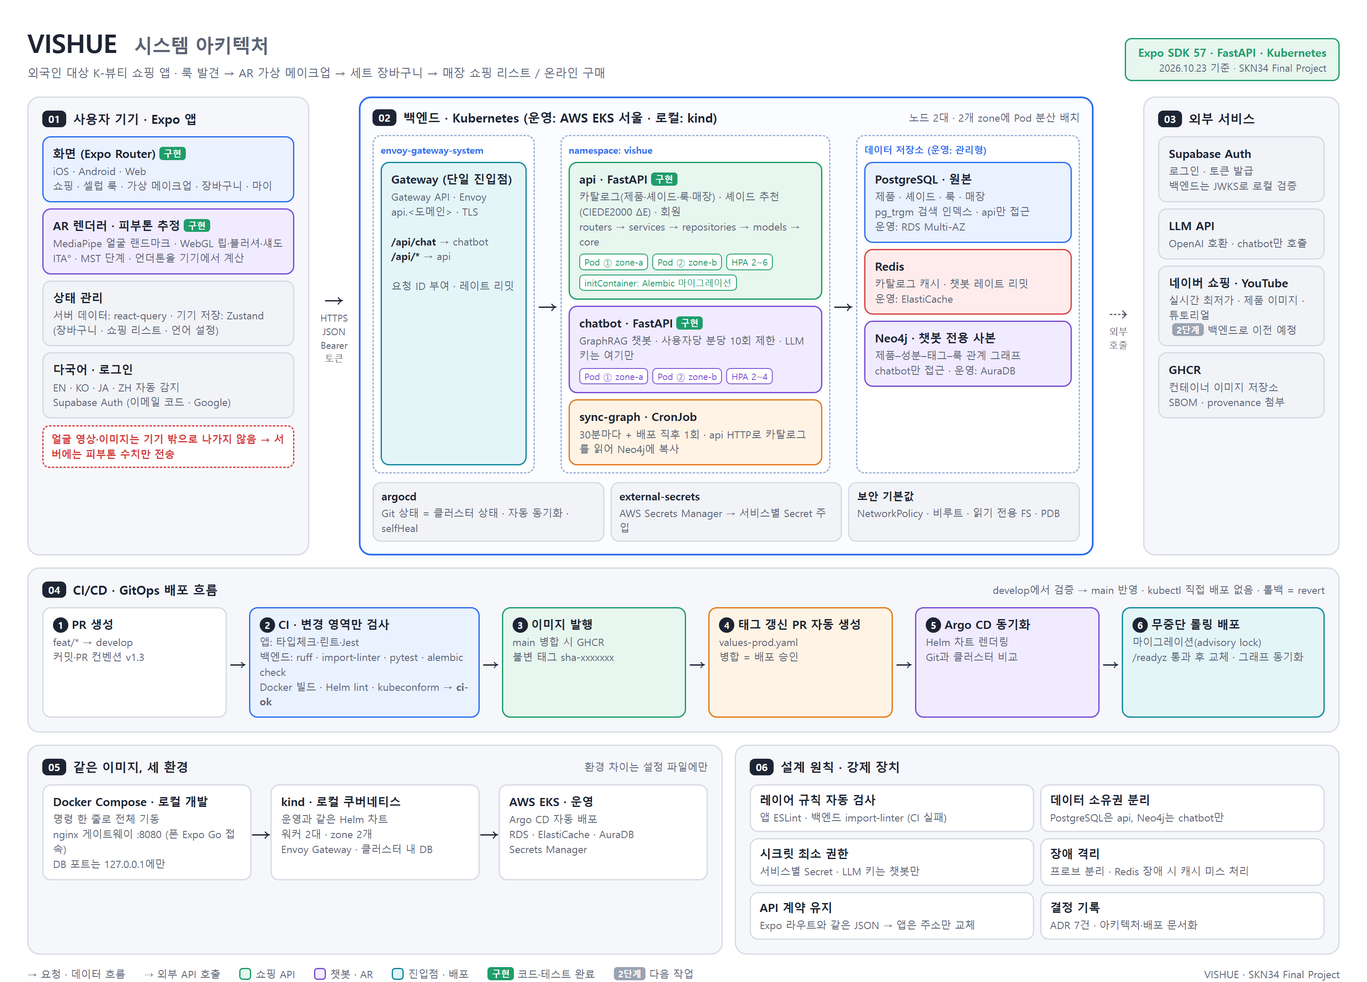
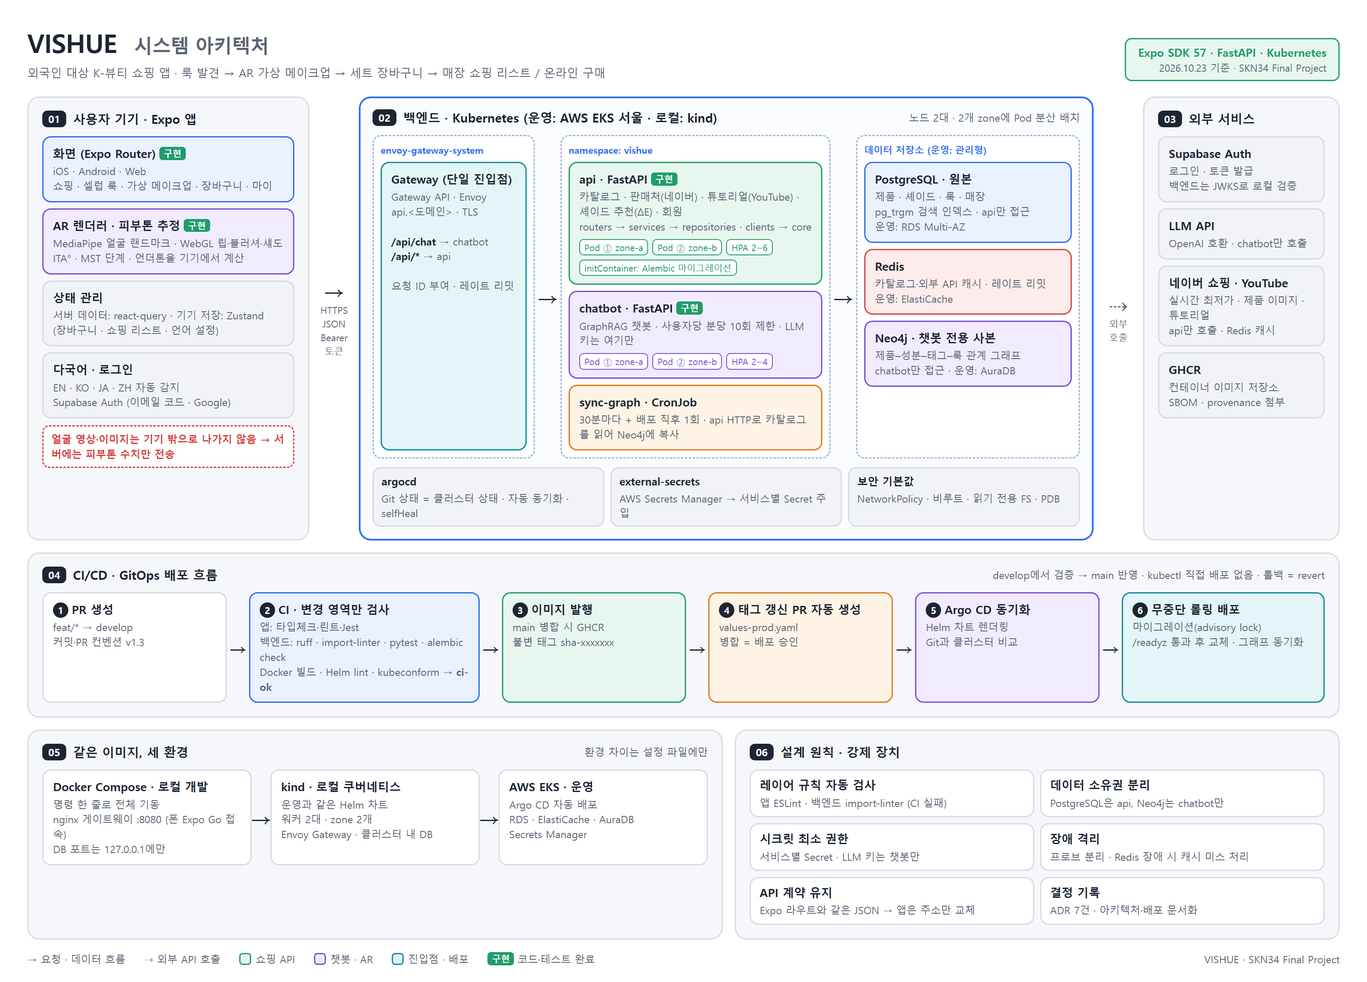
docs: 백엔드 전환에 맞춰 문서와 구조도 갱신

diff --git a/docs/architecture/vishue-architecture.html b/docs/architecture/vishue-architecture.html
@@ -108,7 +108,7 @@
       <div class="ns">
         <div class="label">namespace: vishue</div>
         <div class="stack">
-          <div class="box green"><b>api · FastAPI<span class="tag ok">구현</span></b><p>카탈로그(제품·셰이드·룩·매장) · 셰이드 추천(CIEDE2000 ΔE) · 회원<br>routers → services → repositories → models → core</p>
+          <div class="box green"><b>api · FastAPI<span class="tag ok">구현</span></b><p>카탈로그 · 판매처(네이버) · 튜토리얼(YouTube) · 셰이드 추천(ΔE) · 회원<br>routers → services → repositories · clients → core</p>
             <div class="pods" style="color:var(--green)"><span class="pod">Pod ① zone-a</span><span class="pod">Pod ② zone-b</span><span class="pod">HPA 2~6</span><span class="pod">initContainer: Alembic 마이그레이션</span></div></div>
           <div class="box purple"><b>chatbot · FastAPI<span class="tag ok">구현</span></b><p>GraphRAG 챗봇 · 사용자당 분당 10회 제한 · LLM 키는 여기만</p>
             <div class="pods" style="color:var(--purple)"><span class="pod">Pod ① zone-a</span><span class="pod">Pod ② zone-b</span><span class="pod">HPA 2~4</span></div></div>
@@ -120,7 +120,7 @@
         <div class="label">데이터 저장소 (운영: 관리형)</div>
         <div class="stack">
           <div class="box blue"><b>PostgreSQL · 원본</b><p>제품 · 셰이드 · 룩 · 매장<br>pg_trgm 검색 인덱스 · api만 접근<br>운영: RDS Multi-AZ</p></div>
-          <div class="box red"><b>Redis</b><p>카탈로그 캐시 · 챗봇 레이트 리밋<br>운영: ElastiCache</p></div>
+          <div class="box red"><b>Redis</b><p>카탈로그·외부 API 캐시 · 레이트 리밋<br>운영: ElastiCache</p></div>
           <div class="box purple"><b>Neo4j · 챗봇 전용 사본</b><p>제품–성분–태그–룩 관계 그래프<br>chatbot만 접근 · 운영: AuraDB</p></div>
         </div>
       </div>
@@ -140,7 +140,7 @@
     <div class="stack">
       <div class="box gray"><b>Supabase Auth</b><p>로그인 · 토큰 발급<br>백엔드는 JWKS로 로컬 검증</p></div>
       <div class="box gray"><b>LLM API</b><p>OpenAI 호환 · chatbot만 호출</p></div>
-      <div class="box gray"><b>네이버 쇼핑 · YouTube</b><p>실시간 최저가 · 제품 이미지 · 튜토리얼<br><span class="tag next">2단계</span> 백엔드로 이전 예정</p></div>
+      <div class="box gray"><b>네이버 쇼핑 · YouTube</b><p>실시간 최저가 · 제품 이미지 · 튜토리얼<br>api만 호출 · Redis 캐시</p></div>
       <div class="box gray"><b>GHCR</b><p>컨테이너 이미지 저장소<br>SBOM · provenance 첨부</p></div>
     </div>
   </div>
@@ -197,7 +197,6 @@
   <span><i class="sw" style="border-color:var(--purple);background:var(--purple-bg)"></i>챗봇 · AR</span>
   <span><i class="sw" style="border-color:var(--teal);background:var(--teal-bg)"></i>진입점 · 배포</span>
   <span><span class="tag ok" style="margin:0 4px 0 0">구현</span>코드·테스트 완료</span>
-  <span><span class="tag next" style="margin:0 4px 0 0">2단계</span>다음 작업</span>
   <span style="margin-left:auto">VISHUE · SKN34 Final Project</span>
 </div>
 

diff --git a/README.md b/README.md
@@ -28,31 +28,27 @@
 ## 구조
 
 ```
-app/                    Expo Router 화면 + API 라우트
+app/                    Expo Router 화면
   (tabs)/               쇼핑 · 룩 · 가상 메이크업 · 장바구니 · 마이
   product/ look/        상세 화면
   checkout.tsx lists/   쇼핑 리스트 생성 · 보기
   legal/                개인정보처리방침 · 이용약관
   login, membership, rewards, saved, ingredients
                         새 기획 화면 (UI만 있음, 동작은 미구현)
-  api/                  서버 엔드포인트 (*+api.ts) — 파라미터 검증과 응답만
-server/                 서버 전용 로직 (앱 번들에 포함되지 않음)
-  services/             비즈니스 로직 (검색·필터, 룩 조합, 판매처, 튜토리얼)
-  repositories/         데이터 접근 (지금은 data/catalog, 나중에 DB)
-  clients/              외부 API (네이버, YouTube) — 키는 여기서만 사용
-  lib/                  HTTP, 캐시, 레이트리밋, 환경 변수
-data/catalog/           제품 · 룩 · 매장 데이터 (현재 비어 있음, types/index.ts 형식에 맞춰 추가)
+  dev/ api/dev/         피부 분석 연구 도구 (개발 환경 전용)
+server/                 피부 분석 연구 도구의 개발용 프록시 · Python 평가 코드 (nia/ acne/)
 components/             UI 컴포넌트 (ui/ 범용 · shop/ celeb/ ar/ 기능별)
   ar/                   얼굴 추적 렌더러 (WebView / 웹 iframe 공용 HTML)
 hooks/                  화면용 조합 훅 (장바구니 + 제품 조회 등)
 lib/                    API 클라이언트, react-query 훅, 로그인(auth/), i18n, 포맷
 store/                  Zustand (장바구니·쇼핑리스트·설정은 기기에 저장)
 constants/              테마, 약관 등 정적 상수
-__tests__/              데이터 무결성 · 검색 · 장바구니 · i18n · 서버 유틸 테스트
+__tests__/              장바구니 · i18n · 로그인 · AR · API 주소 테스트
 ml/                     독립 Python 학습 프로젝트 (src · configs · tests · uv.lock)
 reports/                학습·평가 문서와 공유 가능한 결과 요약
 backend/                FastAPI 백엔드 (서비스별 uv 프로젝트)
-  api/                  카탈로그 · 셰이드 추천(ΔE2000) · 회원 — PostgreSQL · Redis
+  api/                  카탈로그 · 판매처(네이버) · 튜토리얼(YouTube) · 셰이드 추천(ΔE2000) · 회원
+                        — PostgreSQL · Redis, 카탈로그 시드는 seed/catalog.json
   chatbot/              챗봇(GraphRAG) · PostgreSQL→Neo4j 동기화 잡 — Neo4j · LLM
 infra/
   compose/              로컬 전체 구성 (게이트웨이 · 두 서비스 · DB 3종)
@@ -61,31 +57,40 @@ infra/
 .github/workflows/      ci (변경 영역별 검사 → ci-ok) · images (GHCR 발행 → 운영 태그 PR)
 ```
 
-API 키는 `server/`와 `app/api/`에서만 읽고 앱 번들에는 포함되지 않습니다(빌드 결과물 검사로 확인).
+API 키는 백엔드(`backend/`)에서만 읽고 앱 번들에는 포함되지 않습니다.
 
 ## 실행
 
-**Expo SDK 57** (Expo Go 57.x와 호환)
+**Expo SDK 57** (Expo Go 57.x와 호환). 앱은 백엔드에서 데이터를 받으므로 백엔드를 먼저 띄웁니다.
 
 ```bash
 npm install
 cp .env.example .env      # 키 입력 (없어도 실행됨: 튜토리얼 검색·온라인 가격만 비활성)
+
+# 1) 백엔드 (Docker Desktop 필요) → http://localhost:8080
+docker compose -f infra/compose/compose.yaml --env-file .env up --build
+
+# 2) 앱 (다른 터미널)
 npx expo start -c
 ```
 
-- 폰: PC와 같은 Wi-Fi에서 QR 스캔 (iOS Expo Go는 PC와 같은 Expo 계정으로 로그인 필요)
+- 앱은 개발 중에 Metro를 띄운 PC의 `:8080`(백엔드 게이트웨이)으로 자동 연결됩니다. 다른 서버를 쓰려면 `.env`에 `EXPO_PUBLIC_API_BASE_URL`을 넣습니다.
+- 폰: PC와 같은 Wi-Fi에서 QR 스캔 (iOS Expo Go는 PC와 같은 Expo 계정으로 로그인 필요). PC 방화벽에서 8080 포트를 허용해야 합니다.
 - 웹: 터미널에서 `w`
 - AR은 첫 진입 시 카메라 동의 → 권한 요청. 얼굴 추적 모델은 처음 한 번 인터넷에서 내려받습니다.
+- 제품 데이터 넣기: `backend/api/seed/catalog.json`을 채운 뒤 [`docs/DEPLOYMENT.md`](docs/DEPLOYMENT.md)의 시드 명령을 실행합니다.
 
-### 환경 변수 (`.env`, 서버 전용)
+### 환경 변수 (`.env`)
 
-| 변수 | 용도 |
-| --- | --- |
-| `YOUTUBE_API_KEY` | 튜토리얼 검색 (YouTube Data API v3) |
-| `NAVER_CLIENT_ID` / `NAVER_CLIENT_SECRET` | 실제 제품 이미지·온라인 최저가 (네이버 쇼핑 검색 API) |
-| `EXPO_PUBLIC_SUPABASE_URL` / `EXPO_PUBLIC_SUPABASE_PUBLISHABLE_KEY` | 로그인 (Supabase Auth). 공개용 값이라 앱에 포함됨 |
+| 변수 | 읽는 곳 | 용도 |
+| --- | --- | --- |
+| `YOUTUBE_API_KEY` | 백엔드 | 튜토리얼 검색 (YouTube Data API v3) |
+| `NAVER_CLIENT_ID` / `NAVER_CLIENT_SECRET` | 백엔드 | 실제 제품 이미지·온라인 최저가 (네이버 쇼핑 검색 API) |
+| `LLM_API_KEY` / `LLM_MODEL` | 백엔드 | 챗봇 |
+| `EXPO_PUBLIC_SUPABASE_URL` / `EXPO_PUBLIC_SUPABASE_PUBLISHABLE_KEY` | 앱·백엔드 | 로그인 (Supabase Auth). 공개용 값이라 앱에 포함됨 |
+| `EXPO_PUBLIC_API_BASE_URL` | 앱 | 백엔드 주소 (공개 값). 개발 중에는 비워 둠 |
 
-위 키들에는 `EXPO_PUBLIC_` 접두어를 붙이지 마세요. 붙이면 앱 번들에 노출됩니다. 예외는 Supabase의 Project URL과 publishable 키뿐이고, Supabase secret(`service_role`) 키는 절대 넣지 않습니다.
+백엔드 키에는 `EXPO_PUBLIC_` 접두어를 붙이지 마세요. 붙이면 앱 번들에 노출됩니다. 예외는 Supabase의 Project URL과 publishable 키, 백엔드 주소뿐이고, Supabase secret(`service_role`) 키는 절대 넣지 않습니다.
 
 ## 스크립트
 
@@ -97,16 +102,12 @@ npm run check      # 타입체크 + 린트 + 테스트
 npm test
 npx expo-doctor
 
-# 백엔드 전체 (Docker Desktop 필요) → http://localhost:8080/api/docs
-docker compose -f infra/compose/compose.yaml --env-file .env up --build
+# 백엔드 API 문서 (Compose 실행 중) → http://localhost:8080/api/docs
 ```
 
 ## 배포
 
-- 서버(API 라우트): EAS Hosting — `npx expo export --platform web && npx eas-cli@latest deploy --environment production`
-- 앱: EAS Build/Submit — `npx eas-cli@latest build --profile production --platform all`
-- `eas.json`의 `EXPO_UNSTABLE_DEPLOY_SERVER=1`이 빌드 시 서버를 함께 배포하고 앱의 API 주소를 연결합니다.
+- 백엔드(`backend/`): 컨테이너 이미지로 GHCR에 발행되고, Helm 차트와 Argo CD로 EKS에 배포됩니다. 흐름은 [`docs/DEPLOYMENT.md`](docs/DEPLOYMENT.md)를 참고하세요.
+- 앱: EAS Build/Submit — `npx eas-cli@latest build --profile production --platform all`. 빌드 전에 EAS 환경 변수 `EXPO_PUBLIC_API_BASE_URL`에 백엔드 주소를 넣습니다.
 
 자세한 순서는 [`docs/LAUNCH_CHECKLIST.md`](docs/LAUNCH_CHECKLIST.md) 참고.
-
-백엔드(`backend/`)는 컨테이너 이미지로 GHCR에 발행되고, Helm 차트와 Argo CD로 EKS에 배포됩니다. 앱이 백엔드로 넘어가는 순서(2단계)는 [`docs/ARCHITECTURE.md`](docs/ARCHITECTURE.md#옮기는-순서), 배포 흐름은 [`docs/DEPLOYMENT.md`](docs/DEPLOYMENT.md)를 참고하세요.

diff --git a/AGENTS.md b/AGENTS.md
@@ -43,18 +43,18 @@ Docs: https://docs.expo.dev/eas/index.md
 ## This project
 
 - Expo SDK 57; the team tests on **Expo Go**, so do not add libraries with custom native code unless the team agrees to move to a development build.
-- Layout: screens and API routes in `app/` (`app/api/**/*+api.ts` run on the server), server-only logic in `server/`, shared types in `types/index.ts`, catalog data in `data/catalog/`, UI components in `components/`, screen-level composed hooks in `hooks/`, Zustand stores in `store/`, data hooks and helpers in `lib/`.
-- Layered architecture: `docs/ARCHITECTURE.md` is authoritative. Upper layers import only lower layers; never import upward, and never import `server/` or `data/` from client code.
+- Layout: screens in `app/`, shared types in `types/index.ts`, UI components in `components/`, screen-level composed hooks in `hooks/`, Zustand stores in `store/`, data hooks and helpers in `lib/`. The app's API is the backend in `backend/`; catalog data is seeded from `backend/api/seed/catalog.json` into PostgreSQL. `app/api/dev/` and `server/` hold only the dev-only skin analysis research proxy and its Python code (`server/nia`, `server/acne`); do not add product features there.
+- Layered architecture: `docs/ARCHITECTURE.md` is authoritative. Upper layers import only lower layers; never import upward, and never import `server/` from client code.
   - Client: `app/` screens → `hooks/`, `components/` → `lib/`, `store/` → `constants/`, `types/`. Fetch data only in screens or `hooks/`; components receive data via props. `components/ui/` must not read `store/` or `lib/queries`.
-  - Server: `app/api/` routes (parse, validate, respond) → `server/services/` (business logic) → `server/repositories/` (data access) and `server/clients/` (external APIs; the only place API keys are used) → `server/lib/` (http, cache, env). Routes must not reach repositories, clients, or `data/` directly.
-  - Enforced by `no-restricted-imports` in `eslint.config.js`: import other folders via the `@/` alias (no `../`); `./` only within the same folder, and never between `server/clients/` files. Update the doc and the lint config together.
-  - Backend (see "백엔드" in `docs/ARCHITECTURE.md`, decisions in `docs/adr/`): two FastAPI services, `backend/api` (catalog, shade recommendation, members; owns PostgreSQL) and `backend/chatbot` (chat, PostgreSQL → Neo4j sync job; owns Neo4j). Each is its own **uv** project (add packages with `uv add`, never `pip install`; commit `uv.lock`; run via `uv run`). Layering `jobs/`, `routers/` → `services/` → `repositories/`, `clients/` → `models/` → `schemas/` → `core/`, enforced by import-linter (`uv run lint-imports`). The chatbot reads the catalog only through the api's HTTP contract, never PostgreSQL directly. Backend JSON matches `types/index.ts` (camelCase, `{ error, code }` errors).
+  - `lib/api.ts` resolves the backend origin: `EXPO_PUBLIC_API_BASE_URL` if set, otherwise in development the gateway on the Metro host at port 8080 (`infra/compose`).
+  - Enforced by `no-restricted-imports` in `eslint.config.js`: import other folders via the `@/` alias (no `../`); `./` only within the same folder. Update the doc and the lint config together.
+  - Backend (see "백엔드" in `docs/ARCHITECTURE.md`, decisions in `docs/adr/`): two FastAPI services, `backend/api` (catalog, Naver offers and product images, YouTube tutorials, shade recommendation, members; owns PostgreSQL) and `backend/chatbot` (chat, PostgreSQL → Neo4j sync job; owns Neo4j). Each is its own **uv** project (add packages with `uv add`, never `pip install`; commit `uv.lock`; run via `uv run`). Layering `jobs/`, `routers/` → `services/` → `repositories/`, `clients/` → `models/` → `schemas/` → `core/`, enforced by import-linter (`uv run lint-imports`). The chatbot reads the catalog only through the api's HTTP contract, never PostgreSQL directly. Backend JSON matches `types/index.ts` (camelCase, `{ error, code }` errors).
   - Infra: `infra/compose/` (local stack), `infra/helm/vishue/` (one chart; `values-local.yaml` for kind, `values-prod.yaml` for EKS), `infra/argocd/`, `infra/platform/` (cluster-wide prerequisites). Deploys are GitOps: never `kubectl apply` app resources by hand. See `docs/DEPLOYMENT.md`.
   - Never send face video or images to any server. Shade recommendation receives only on-device skin tone values (ITA°, MST level, undertone).
-  - Repository functions stay `async` even over static data so a DB can replace them without touching callers. Name files `<subject><Layer>.ts` (e.g. `catalogService.ts`, `naverClient.ts`).
-- API keys are read only by server code (`server/`, `app/api/`) from `.env`. Never prefix secrets with `EXPO_PUBLIC_` and never commit `.env`.
-  - Only exception: the Supabase Project URL and publishable key are public by design and ship in the app as `EXPO_PUBLIC_SUPABASE_URL` and `EXPO_PUBLIC_SUPABASE_PUBLISHABLE_KEY`. Never put the Supabase secret / `service_role` key in the app or under `EXPO_PUBLIC_`.
-- Auth: Supabase Auth through `lib/auth` (email + code verification, Google via browser redirect; Apple is not connected yet). Read the session with `useAuth()`, never copy it into a Zustand store. `lib/api.ts` attaches the access token; API routes verify it with `getAuthUser()` from `server/lib/auth.ts`.
+  - Backend files are `<subject>_<layer>.py` (e.g. `catalog_service.py`, `naver_client.py`). Imported catalog data must pass `validate_catalog`.
+- API keys (Naver, YouTube, LLM) are read only by backend `clients/` from environment variables (`.env` via docker compose locally, Kubernetes Secrets in clusters). Never prefix secrets with `EXPO_PUBLIC_` and never commit `.env`.
+  - Only exceptions: the Supabase Project URL and publishable key (`EXPO_PUBLIC_SUPABASE_URL`, `EXPO_PUBLIC_SUPABASE_PUBLISHABLE_KEY`) and the backend address (`EXPO_PUBLIC_API_BASE_URL`) are public by design and ship in the app. Never put the Supabase secret / `service_role` key in the app or under `EXPO_PUBLIC_`.
+- Auth: Supabase Auth through `lib/auth` (email + code verification, Google via browser redirect; Apple is not connected yet). Read the session with `useAuth()`, never copy it into a Zustand store. `lib/api.ts` attaches the access token; the backend verifies it in `app/core/auth.py` (`require_user`).
 - UI text goes through `lib/i18n`. Add every new key to all four dictionaries (`en`, `ko`, `ja`, `zh`); typecheck fails if one is missing.
 - The AR renderer is an HTML string in `components/ar/faceTrackerHtml.ts`; typecheck and lint do not see its script, so run `npm test` after editing it.
 - Run `npm run check` (typecheck + lint + tests) before committing. For backend changes, also run `uv run ruff check . && uv run lint-imports && uv run pytest` in each changed `backend/<service>/`; for chart changes, `helm lint infra/helm/vishue -f infra/helm/vishue/values-<env>.yaml`.

diff --git a/docs/LAUNCH_CHECKLIST.md b/docs/LAUNCH_CHECKLIST.md
@@ -16,12 +16,12 @@
   - 풀리면 코드 수정 없이 상품 상세에 "온라인 구매"(판매처·최저가·링크)가 자동으로 나타납니다. 지금은 해당 영역만 숨겨집니다
 - [ ] (운영) YouTube API 할당량: 기본 하루 10,000 유닛, 검색 1회 = 100 유닛. 서버 캐시(12시간)로 줄였지만 사용자가 많아지면 Google에 할당량 증가 신청 필요
 
-## 3. 데이터 확인 (`data/catalog/`)
+## 3. 데이터 확인 (`backend/api/seed/catalog.json`, 이후 크롤링 데이터)
 
 - [ ] **제품 가격·컬러명·HEX 색상 검수** — 실제 제품 라인이지만 값은 참고치입니다. 공식몰 기준으로 확인
 - [ ] **제품 이미지 라이선스** — 지금은 Unsplash 임시 사진(다른 브랜드가 찍힌 사진 포함). 네이버 연동 이미지나 브랜드 공식 보도자료 이미지로 교체
 - [ ] **룩 썸네일 교체** — 저작권이 확보된 이미지로 교체
-- [ ] **매장 주소·좌표·영업시간 검수** (`stores.ts`)
+- [ ] **매장 주소·좌표·영업시간 검수** (시드 파일의 `stores`)
 - [ ] 룩 ↔ 제품 매핑 최종 확정, 제품 수 확대 (MVP 권장 30~50개)
 
 ## 4. 법률·정책 판단
@@ -53,20 +53,13 @@
 - [ ] **Apple Developer Program** 가입 (연 $99) — iOS 출시와 실기기 빌드에 필요
 - [ ] **Google Play Console** 가입 (1회 $25)
 - [ ] EAS 프로젝트 연결: `npx eas-cli@latest init`
-- [ ] **서버 키를 EAS에 등록** (배포된 서버가 읽음). EAS Hosting은 `secret` 등급을 배포하지 못하므로 반드시 `sensitive`로:
+- [ ] **백엔드 배포** — [`DEPLOYMENT.md`](DEPLOYMENT.md)의 "AWS EKS" 절. 네이버·YouTube 키는 앱이 아니라 백엔드 시크릿(`vishue/production/api`)에 넣습니다
+  - 배포 후 `https://api.<도메인>/api/health`가 `{"ok":true,"integrations":{"youtube":true,...}}`인지 확인
+- [ ] **앱에 백엔드 주소 등록** (공개 값이라 `plaintext`):
   ```bash
-  npx eas-cli@latest env:create --name YOUTUBE_API_KEY --value <키> --environment production --visibility sensitive
-  npx eas-cli@latest env:create --name NAVER_CLIENT_ID --value <값> --environment production --visibility sensitive
-  npx eas-cli@latest env:create --name NAVER_CLIENT_SECRET --value <값> --environment production --visibility sensitive
+  npx eas-cli@latest env:create --name EXPO_PUBLIC_API_BASE_URL --value https://api.<도메인> --environment production --visibility plaintext
   ```
-  (`preview` 환경에도 동일하게)
-- [ ] 서버 최초 배포:
-  ```bash
-  npx expo export --platform web
-  npx eas-cli@latest deploy --environment production
-  ```
-  나온 URL에서 `/api/health`가 `{"ok":true,"integrations":{"youtube":true,...}}`인지 확인
-- [ ] 키를 바꾸면 다시 export + deploy 해야 반영됩니다 (배포는 변경 불가 단위)
+  (`preview` 환경에도 동일하게. 주소를 바꾸면 앱을 다시 빌드해야 반영됩니다)
 - [ ] 테스트 빌드: `npx eas-cli@latest build --profile preview --platform android` → APK 설치해 확인
 - [ ] 출시 빌드·제출: `npx eas-cli@latest build --profile production --platform all` → `npx eas-cli@latest submit`
 - [ ] App Store Connect **개인정보 라벨**: 계정 없음, 수집 데이터 없음(카메라는 기기 내 처리), 검색어는 서버로 전달되지만 사용자와 연결되지 않음
@@ -74,8 +67,8 @@
 
 ## 참고: 구현된 운영 품질 항목
 
-- API 키는 서버 전용, 앱 번들에 미포함 (빌드 결과물 검사로 확인)
-- 서버 캐시(YouTube 12시간, 네이버 6시간), 검색 레이트리밋(IP당 분당 20회), 외부 API 타임아웃, 입력값 검증
+- API 키는 백엔드 전용, 앱 번들에 미포함
+- 백엔드 캐시(Redis: YouTube 12시간, 네이버 판매처 6시간·이미지 24시간), 튜토리얼 검색 레이트리밋(IP당 분당 20회), 외부 API 타임아웃, 입력값 검증
 - 네트워크 오류·로딩·빈 화면 처리, 재시도
 - 장바구니·쇼핑 리스트·설정은 기기에 저장, 마이 탭에서 전체 삭제 가능
 - 카메라: 동의 화면, 권한 거부 시 설정으로 이동, 탭 이탈·앱 백그라운드 시 카메라 해제

diff --git a/docs/DEPLOYMENT.md b/docs/DEPLOYMENT.md
@@ -26,10 +26,11 @@ Docker Desktop이 필요합니다. 저장소 루트에서 실행합니다.
 docker compose -f infra/compose/compose.yaml --env-file .env up --build
 ```
 
-- 루트 `.env`의 `EXPO_PUBLIC_SUPABASE_*` 값을 그대로 읽어 토큰 검증에 씁니다. 챗봇을 켜려면 `.env`에 `LLM_API_KEY`와 `LLM_MODEL`을 추가합니다. 없으면 `/api/chat`은 503을 돌려줍니다.
+- 루트 `.env`를 그대로 읽습니다. `EXPO_PUBLIC_SUPABASE_*`는 토큰 검증에, `NAVER_*`와 `YOUTUBE_API_KEY`는 판매처·제품 이미지·튜토리얼 검색에, `LLM_API_KEY`와 `LLM_MODEL`은 챗봇에 씁니다. 키가 없으면 해당 기능만 꺼집니다(챗봇은 503).
 - 시작 순서는 자동입니다. PostgreSQL → `migrate`(Alembic) → `api` → `sync-graph` 순서로 뜨고, `chatbot`은 Neo4j가 준비되면 뜹니다.
 - 확인: `curl http://localhost:8080/api/products`, API 문서는 `http://localhost:8080/api/docs`
-- 휴대폰(Expo Go)에서는 `http://<PC의 LAN IP>:8080`으로 접근합니다. LAN에 열리는 포트는 게이트웨이(8080) 하나뿐이고, DB 포트는 `127.0.0.1`에만 열립니다.
+- 앱(`npx expo start`)은 개발 중에 Metro를 띄운 PC의 `:8080`으로 자동 연결됩니다. 휴대폰 Expo Go도 같은 Wi-Fi라면 따로 설정할 필요가 없습니다(PC 방화벽에서 8080 허용 필요). 터널 모드(`--tunnel`)처럼 PC 주소로 닿지 않을 때는 `.env`의 `EXPO_PUBLIC_API_BASE_URL`에 백엔드 주소를 넣습니다.
+- LAN에 열리는 포트는 게이트웨이(8080) 하나뿐이고, DB 포트는 `127.0.0.1`에만 열립니다. Expo 웹(`localhost:8081`)에서 부르는 경우를 위해 CORS가 기본으로 열려 있습니다(`CORS_ORIGINS`).
 - 카탈로그 넣기: `backend/api/seed/catalog.json`을 채운 뒤 다음을 실행합니다.
 
   ```bash

diff --git a/docs/adr/0006-secrets-per-service.md b/docs/adr/0006-secrets-per-service.md
@@ -9,7 +9,7 @@
 ## 결정
 
 - 시크릿은 서비스마다 따로 둡니다.
-  - `vishue-api`: `DATABASE_URL`, `REDIS_URL`
+  - `vishue-api`: `DATABASE_URL`, `REDIS_URL`, `NAVER_CLIENT_ID`, `NAVER_CLIENT_SECRET`, `YOUTUBE_API_KEY`
   - `vishue-chatbot`: `NEO4J_PASSWORD`, `REDIS_URL`, `LLM_API_KEY`
 - 비밀이 아닌 설정(모델 이름, 로그 레벨, Supabase 공개 값)은 ConfigMap에 둡니다. ConfigMap이 바뀌면 checksum 어노테이션 때문에 Pod가 다시 뜹니다.
 - 운영 시크릿의 원본은 AWS Secrets Manager(`vishue/production/api`, `vishue/production/chatbot`)이고, External Secrets Operator가 쿠버네티스 Secret으로 동기화합니다. Git에는 시크릿 값을 커밋하지 않습니다.
